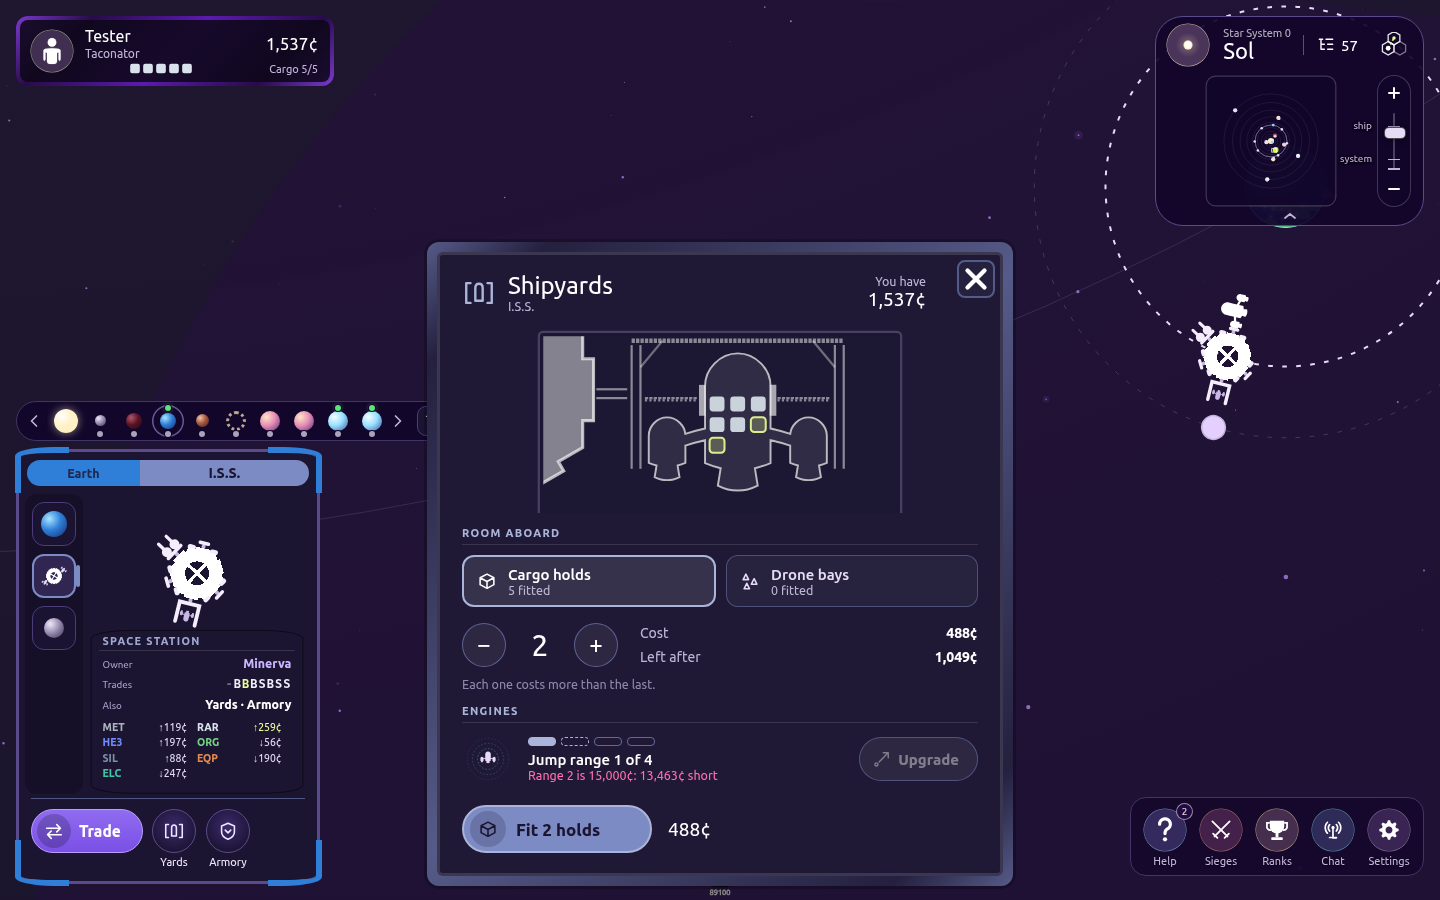
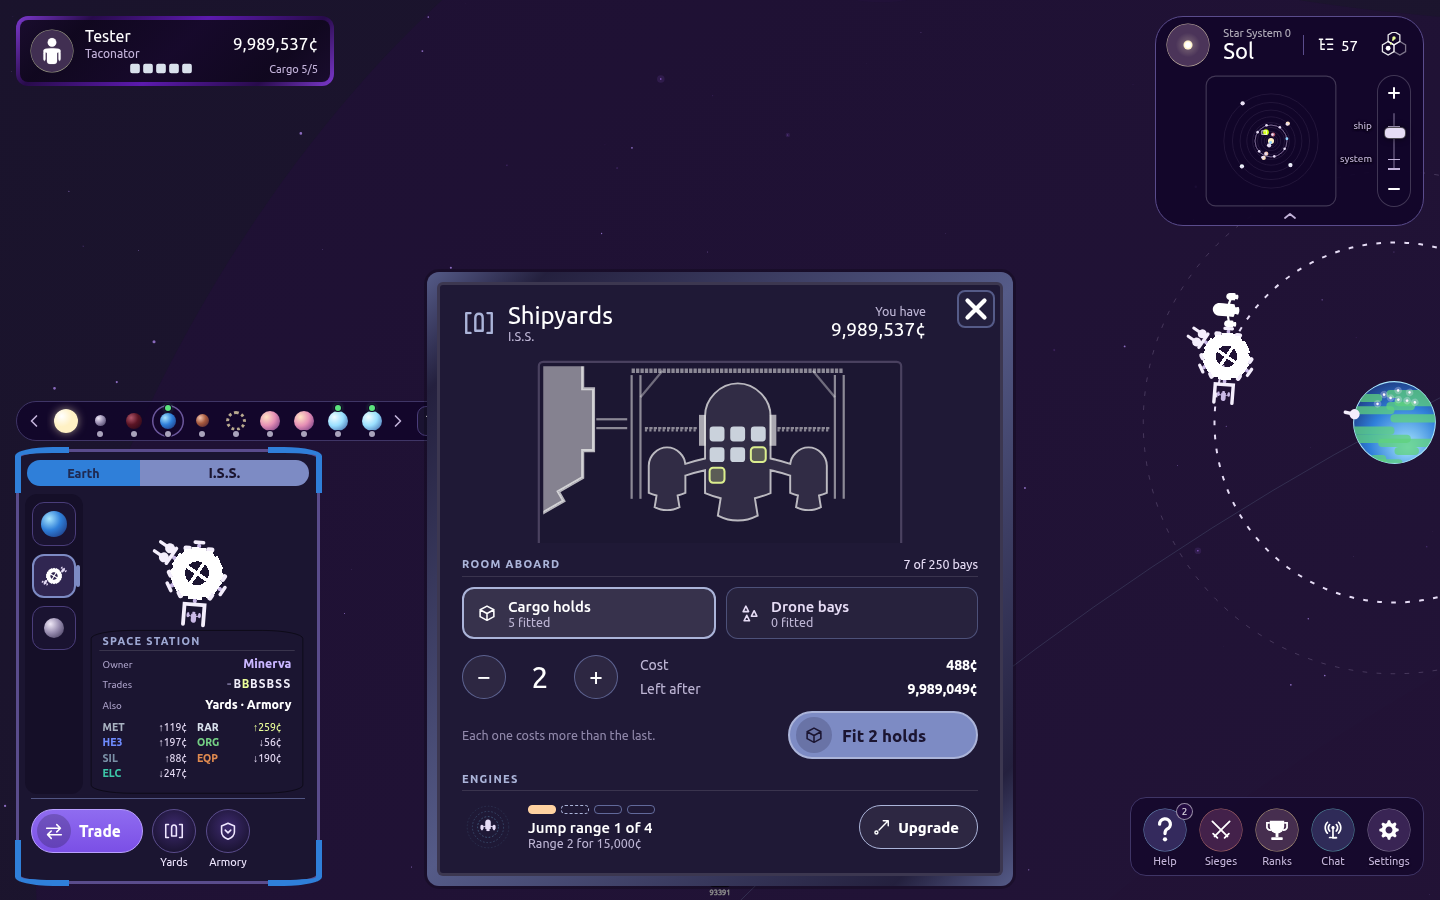
Yards, second pass: the bays' limit as a meter, the button by the stepper
The Armory's pattern applied: the group's limit in its heading (bays of
250, counting what's about to be fitted), the Fit button where the
stepper is, and engine power in the capacitors' warm yellow.

diff --git a/orbiter-client/src/components/hud/yards/yards-panel.vue b/orbiter-client/src/components/hud/yards/yards-panel.vue
@@ -19,7 +19,8 @@
     </svg>
 
     <section>
-      <h3>Room aboard</h3>
+      <!-- the limit on the group it governs (as the armory's meters): every bay, cargo or drone, counts toward one total -->
+      <h3><span>Room aboard</span><span class="meter">{{ ship.holds + droneBays + count }} of {{ MAX_CARGO_HOLDS }} bays</span></h3>
       <div class="kinds" role="tablist" aria-label="What to fit">
         <button v-for="kind in KINDS" :key="kind.key" type="button" role="tab" class="kind" :class="{ on: kind.key === bayKind }" :aria-selected="kind.key === bayKind ? 'true' : 'false'" @click="chooseKind(kind.key)">
           <small-icon :name="kind.icon" />
@@ -54,7 +55,14 @@
             </p>
           </div>
         </div>
-        <p class="hint">Each one costs more than the last.</p>
+        <!-- the button is where the stepper is: nothing to cross the sheet for (second pass) -->
+        <div class="go">
+          <p class="hint">Each one costs more than the last.</p>
+          <button type="button" class="main" :disabled="!count || pending" @click="fit">
+            <span class="main-well"><small-icon :name="bayKind === 'drone' ? 'drones' : 'port'" /></span>
+            {{ pending ? 'Fitting…' : count ? `Fit ${count} ${noun(count)}` : 'Fit ' + noun(2) }}
+          </button>
+        </div>
       </template>
     </section>
 
@@ -77,14 +85,6 @@
       </div>
     </section>
 
-    <!-- the screen's one main action -->
-    <footer>
-      <button type="button" class="main" :disabled="!count || pending" @click="fit">
-        <span class="main-well"><small-icon :name="bayKind === 'drone' ? 'drones' : 'port'" /></span>
-        {{ pending ? 'Fitting…' : count ? `Fit ${count} ${noun(count)}` : 'Fit ' + noun(2) }}
-      </button>
-      <span v-if="count" class="total">{{ credits(totalCost) }}¢</span>
-    </footer>
   </div>
 </template>
 
@@ -123,7 +123,8 @@ export default {
       pending: false,
       player: usePlayerStore(),
       engineArt,
-      MAX_RANGE
+      MAX_RANGE,
+      MAX_CARGO_HOLDS
     }
   },
   computed: {
@@ -280,6 +281,10 @@ section {
   margin-top: 14px;
 }
 h3 {
+  display: flex;
+  align-items: center;
+  justify-content: space-between;
+  gap: 10px;
   margin: 0 0 10px;
   padding-bottom: 5px;
   border-bottom: 1px solid #ffffff1f;
@@ -434,9 +439,10 @@ small.needs {
   border: 1px solid color-mix(in srgb, var(--base) 70%, transparent);
   border-radius: 4px;
 }
+/* engine power is the capacitors' warm yellow, as on the ship's own picture */
 .pips i.on {
-  border-color: var(--accent);
-  background: var(--accent);
+  border-color: #ffd2a1;
+  background: #ffd2a1;
 }
 /* the next step: not there yet */
 .pips i.next {
@@ -469,11 +475,22 @@ small.needs {
   width: 20px;
   height: 20px;
 }
-footer {
+.meter {
+  color: #e6dcf5;
+  font-size: 12.5px;
+  font-weight: normal;
+  letter-spacing: 0;
+  text-transform: none;
+}
+.go {
   display: flex;
   align-items: center;
-  gap: 16px;
-  margin-top: 20px;
+  justify-content: space-between;
+  gap: 14px;
+  margin-top: 10px;
+}
+.go .hint {
+  margin: 0;
 }
 /* the main action: the menu's own color, dark words on it, as its heading has */
 .main {
@@ -506,14 +523,11 @@ footer {
   border-radius: 50%;
   background: #1b153133;
 }
-.total {
-  color: #ffffff;
-  font-size: 19px;
-}
 .narrow .buy {
   gap: 14px;
 }
-.narrow .main {
-  flex: 1;
+.narrow .go {
+  flex-direction: column;
+  align-items: stretch;
 }
 </style>

diff --git a/docs/ui-plan.md b/docs/ui-plan.md
@@ -842,4 +842,8 @@ Log:
     a group that's out of room says where room comes from, with a Yards button.
   - **A pattern for the other menus:** group by the limit that governs, put the meter in the group's
     heading, open the chosen row in place, and never leave a "can't" without a way on.
+- 2026-11-22: **Yards, second pass** (the Armory's pattern): the bays' limit as a meter in the group's
+  heading ("7 of 250 bays", counting what you're about to fit); the Fit button beside the stepper
+  instead of at the foot of the sheet; engine power in the capacitors' warm yellow. Checked by
+  screenshot. **Next:** Colony, then Loadout into the ship's Details, then the rest of the list above.
 
